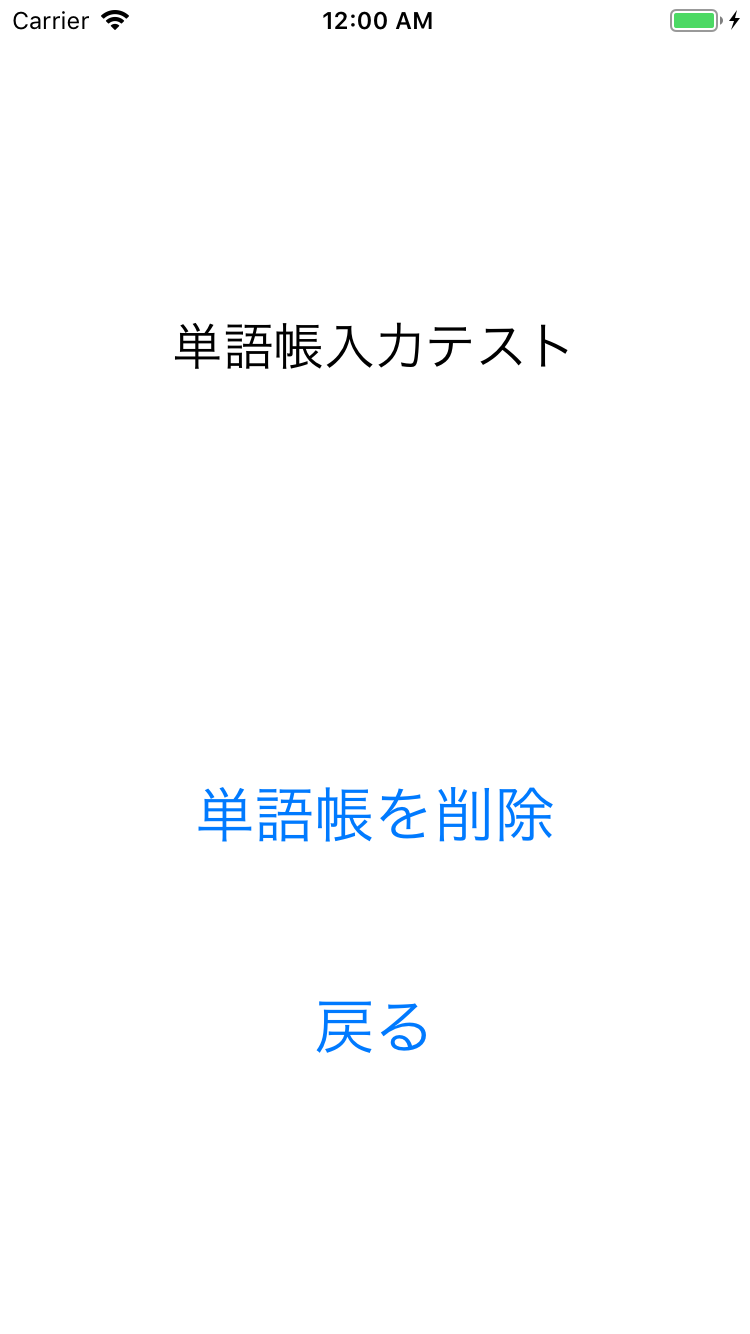
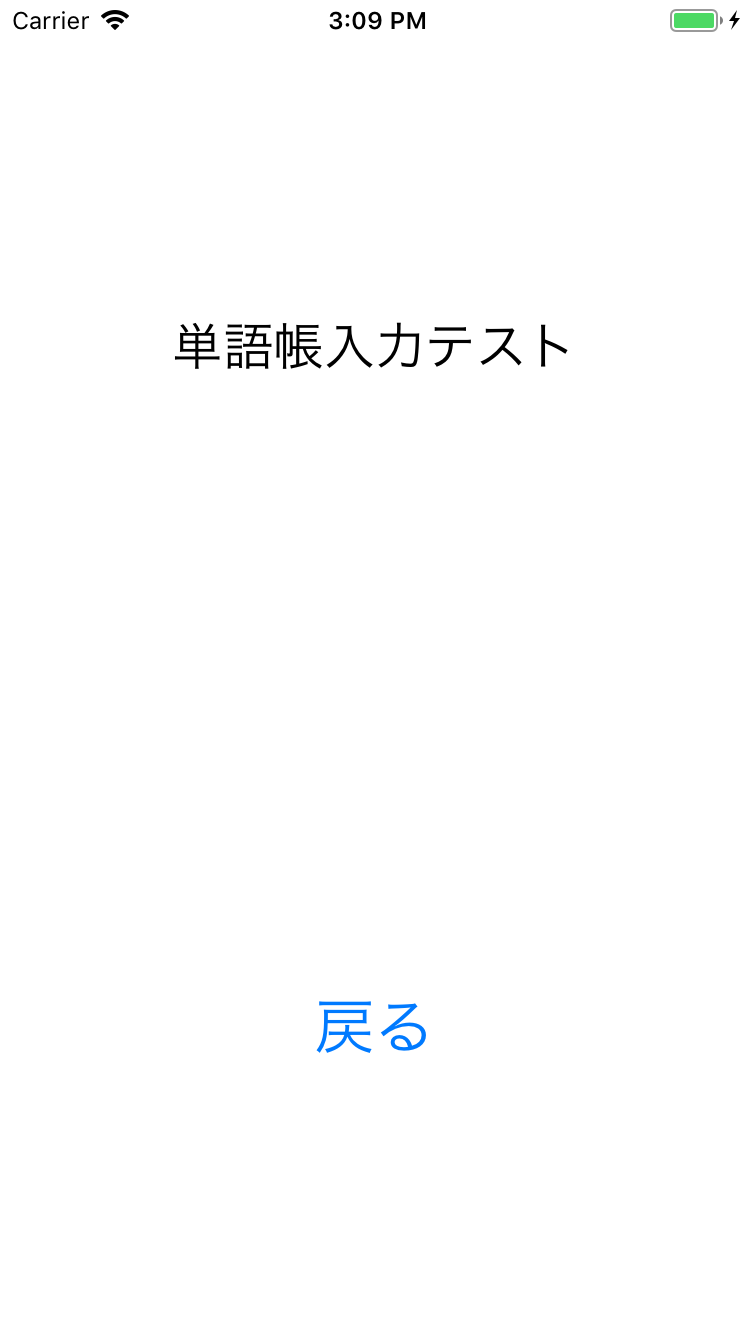
スワイプ削除に伴いConfigure画面から「削除」ボタンを削除

Changed region(s): [[0.276, 0.584, 0.552, 0.6454], [0.5827, 0.584, 0.736, 0.6454], [0.4293, 0.0, 0.5827, 0.0307]]

diff --git a/EnglishWords/EnglishWords/ConfigureWordNoteBookViewController.swift b/EnglishWords/EnglishWords/ConfigureWordNoteBookViewController.swift
@@ -23,24 +23,6 @@ class ConfigureWordNoteBookViewController: UIViewController {
         label.text = wordnotebook.wordNoteBookName
     }
     
-    @IBAction func buttonTapped(sender : AnyObject) {
-        performSegue(withIdentifier: "DeleteBookandToViewController",sender: nil)
-        
-    }
-    
-    // Segue 準備
-    override func prepare(for segue: UIStoryboardSegue, sender: Any?) {
-        if (segue.identifier == "DeleteBookandToViewController") {
-            //Realm
-            let realm = try! Realm()
-            
-            try! realm.write {
-                realm.delete(wordnotebook)
-            }
-            
-        }
-    }
-    
     override func didReceiveMemoryWarning() {
         super.didReceiveMemoryWarning()
     }
